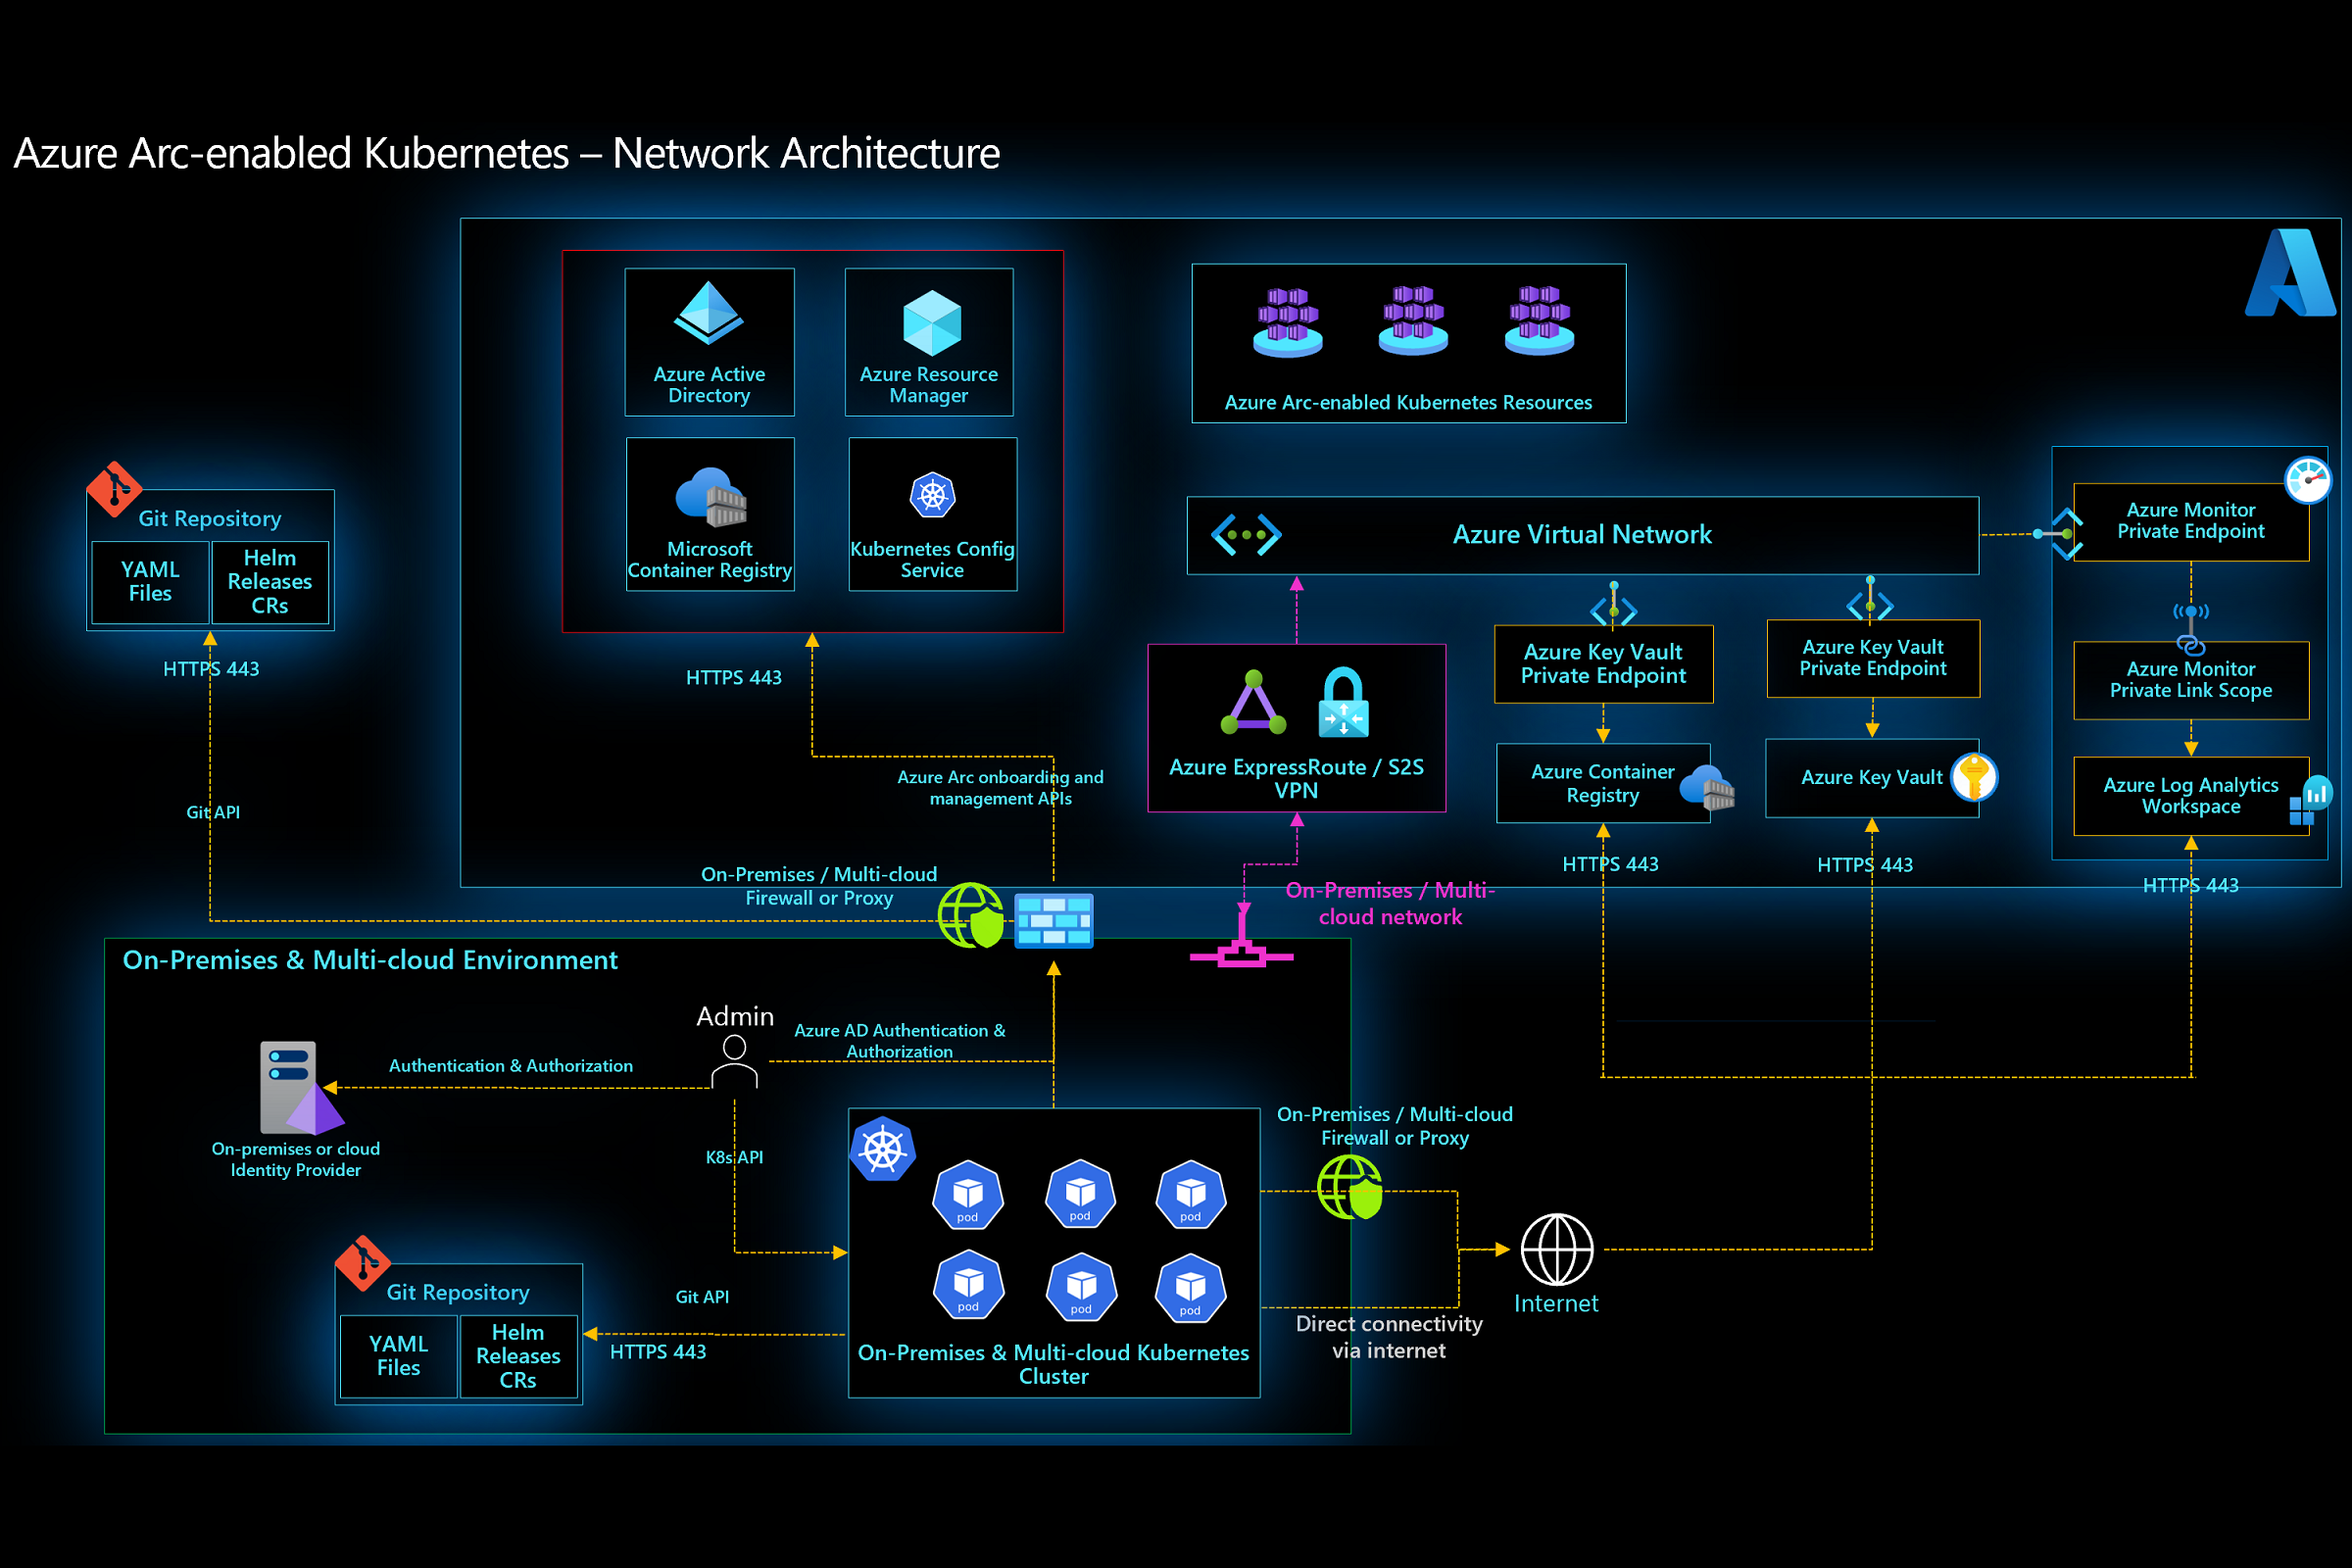
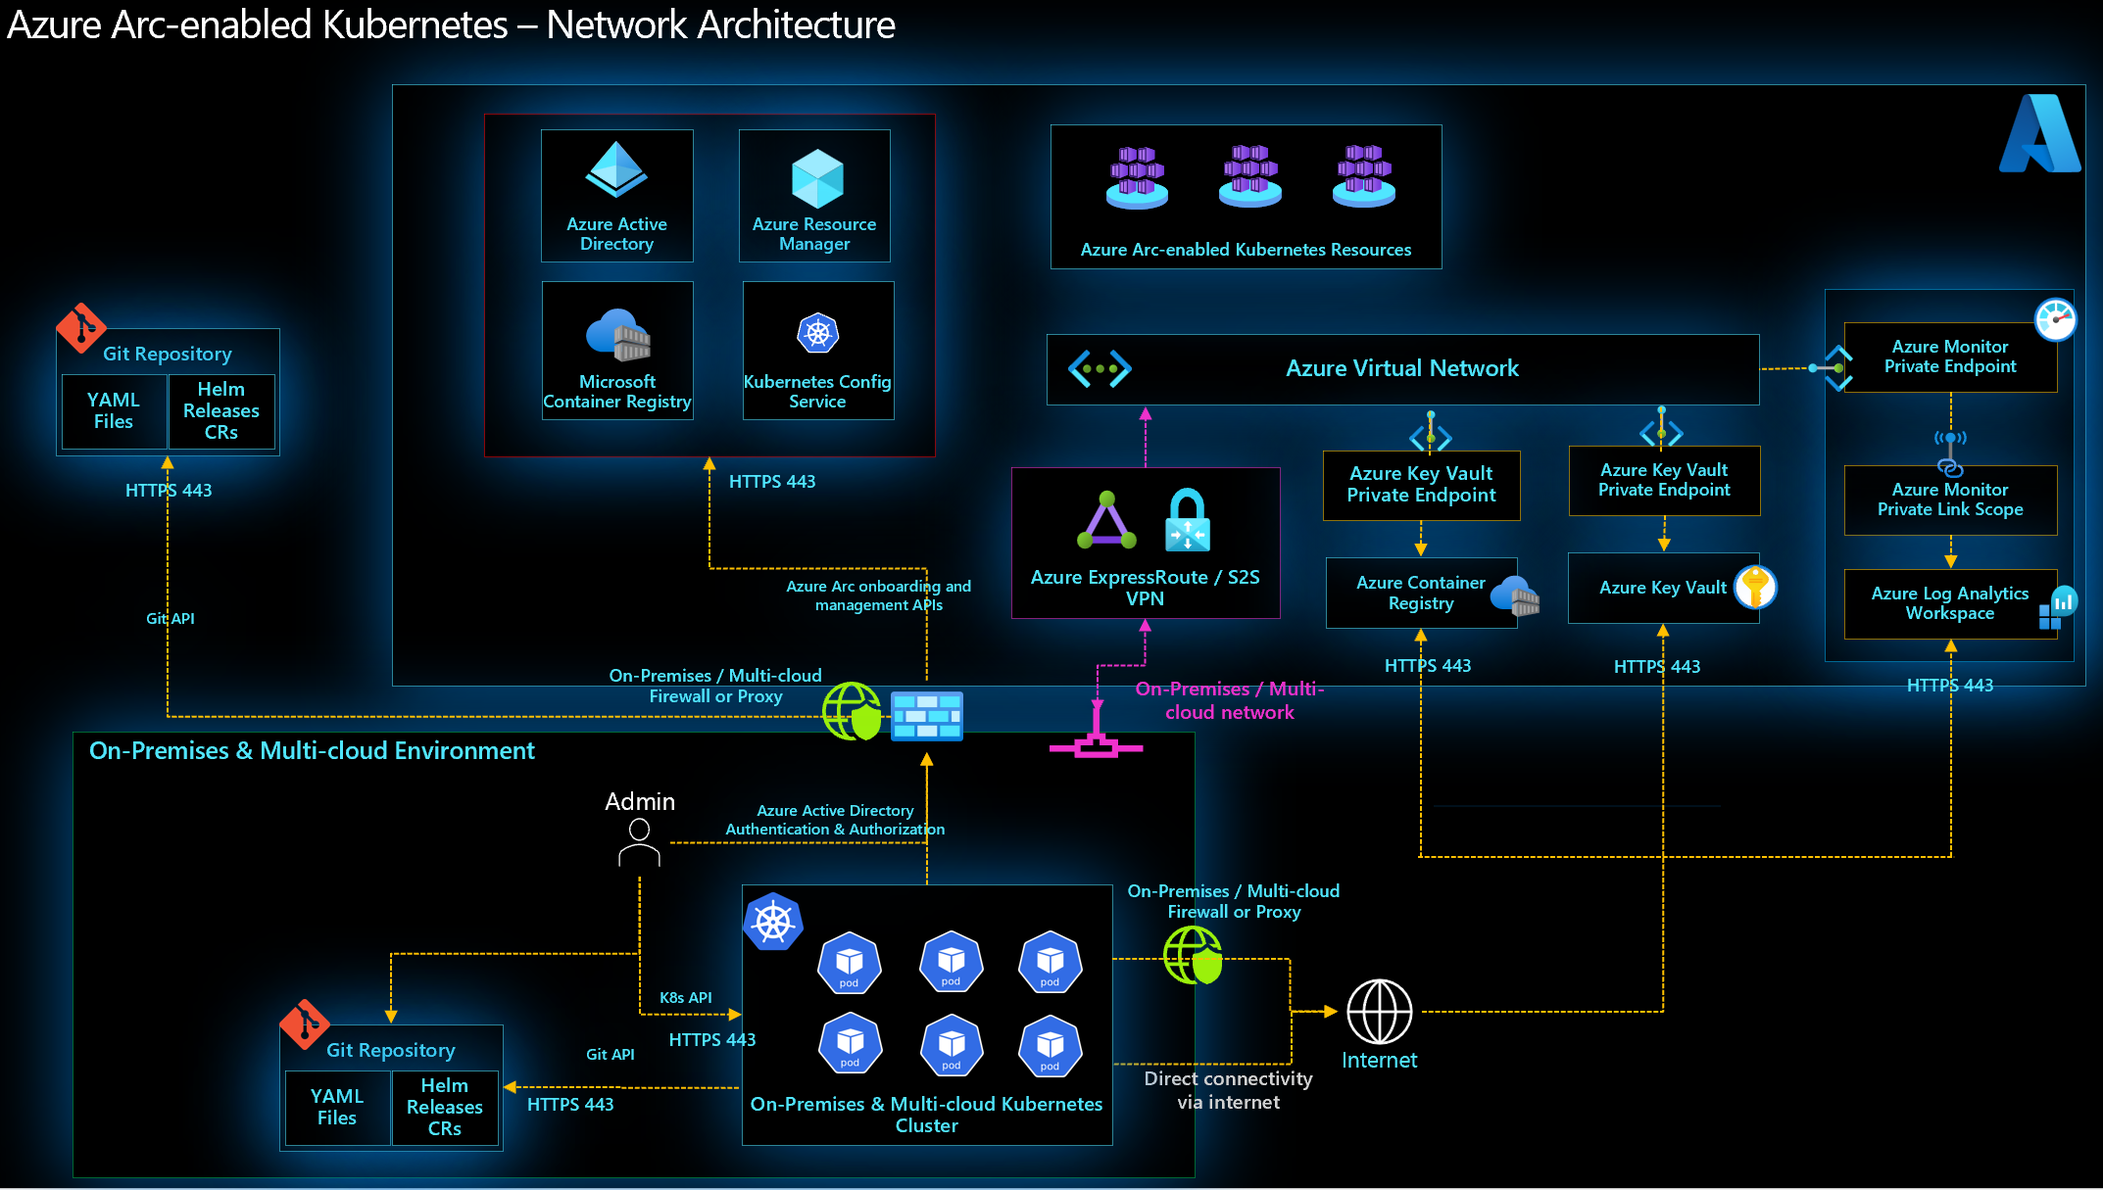
Update diagrams
Update diagrams as per PM review comments.

diff --git a/docs/scenarios/hybrid/arc-enabled-kubernetes/network-connectivity.md b/docs/scenarios/hybrid/arc-enabled-kubernetes/network-connectivity.md
@@ -24,7 +24,7 @@ The following is an Azure Arc-enabled Kubernetes network architecture diagram to
 
 The following is a network architecture diagram that supports cluster access from any network location using [Azure Arc-enabled Kubernetes Cluster Connect](/azure/azure-arc/kubernetes/conceptual-cluster-connect) feature.
 
-![Arc-enabled Kubernetes Cluster Connect Network Architecture](./media/cluster-connect-network.png)
+![Arc-enabled Kubernetes Cluster Connect Network Architecture](./media/conceptual-cluster-connect.png)
 
 ## Design considerations
 
